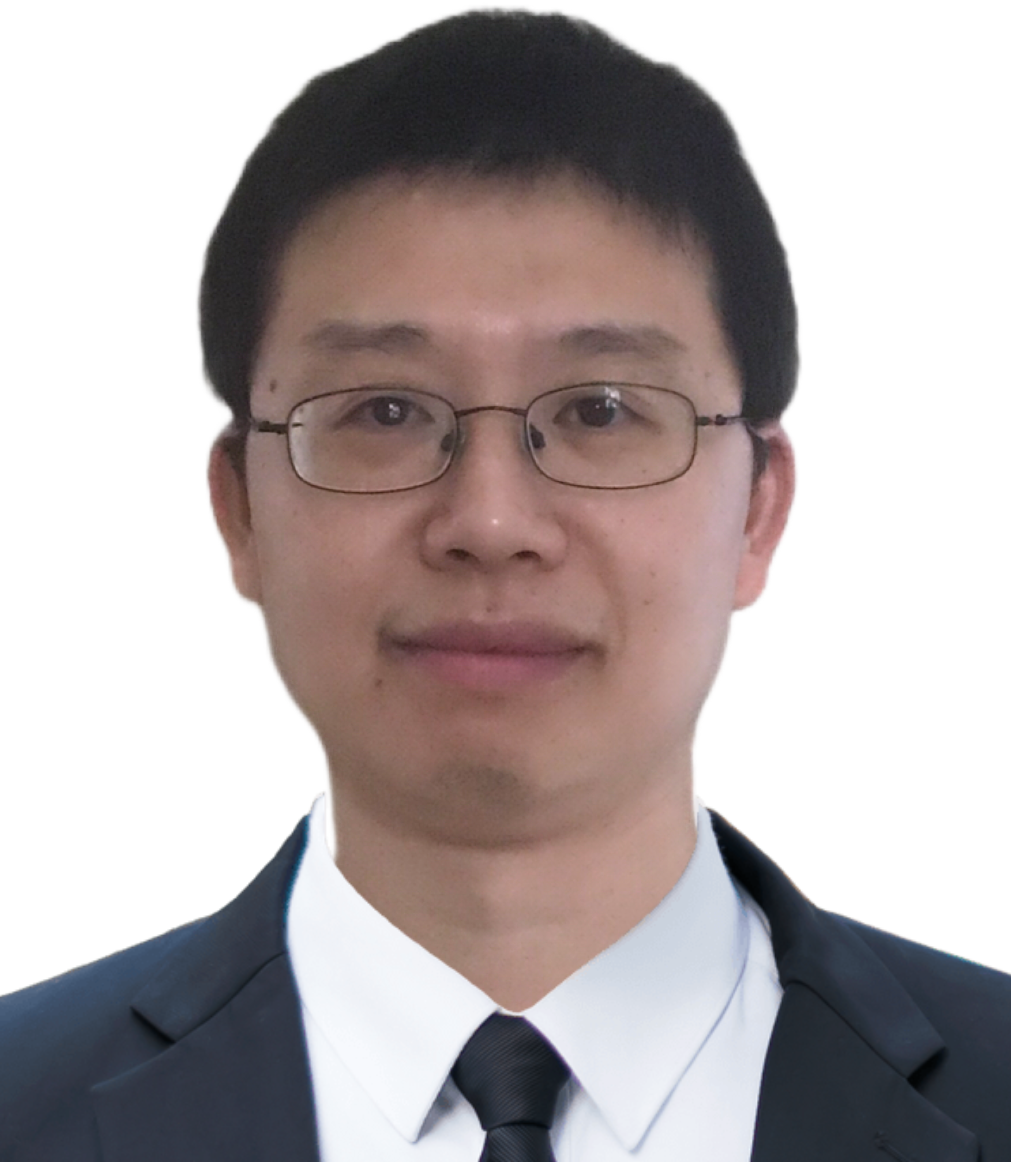
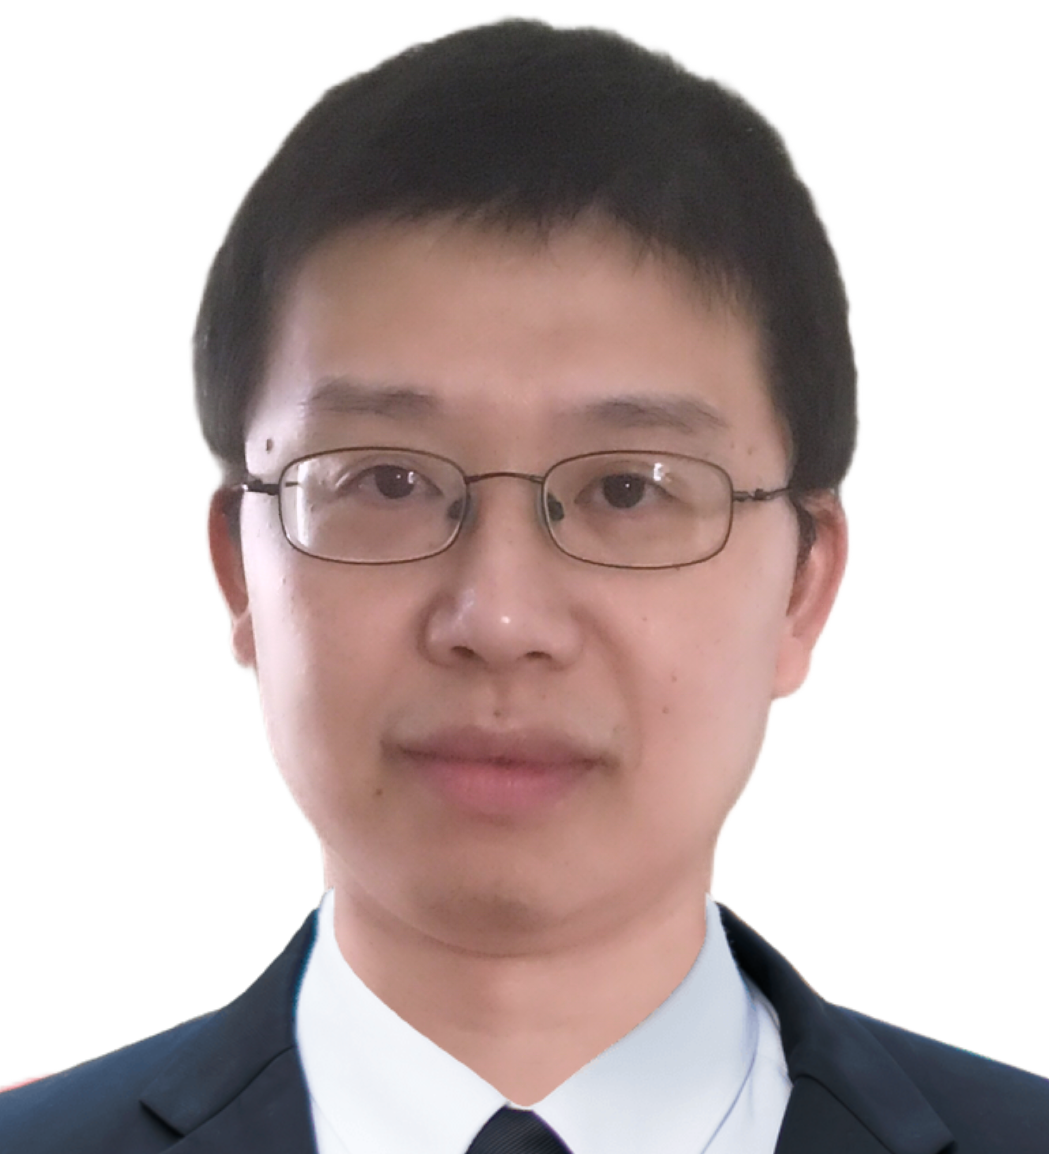
update

diff --git a/index.html b/index.html
@@ -47,7 +47,7 @@
 		<!-- Contact Info on the Sidebar -->
 		<div class="col-md-4">
 			<!-- Main Image -->
-			<img class="img-responsive" src="./images/profile.png" width="200" height="200" alt="">
+			<img class="img-responsive" src="./images/profile.png" width="160" height="160" alt="">
 			<div style="font-family: 'Oswald', sans-serif; font-size: 32px;">Ming Zhao</div></b>
 			<p>Assistant Professor<br>
 			Department of Business Administration<br>
